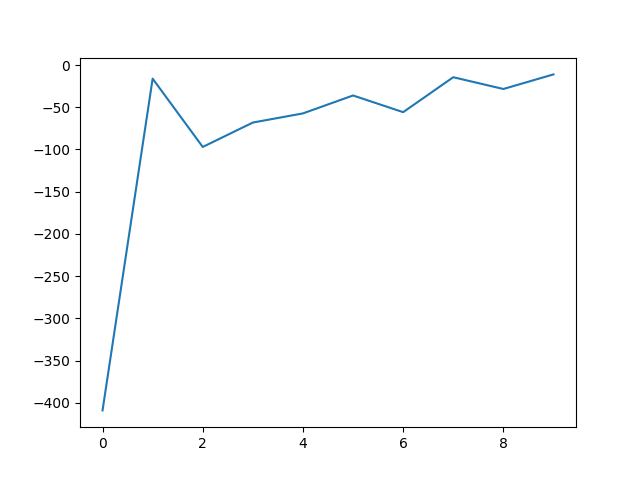
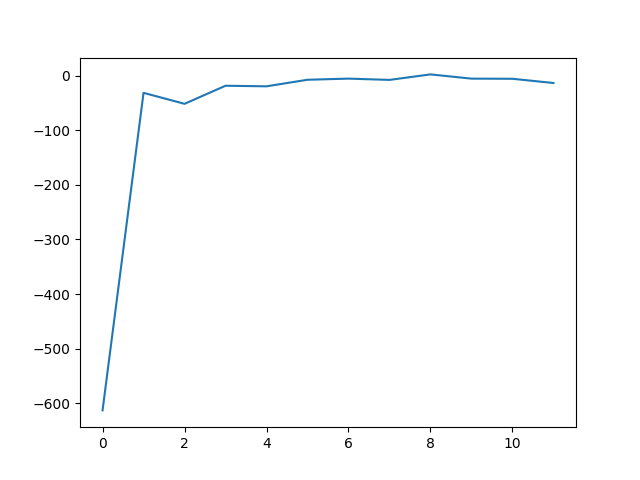
model testable with one decision at start

diff --git a/Structure.py b/Structure.py
@@ -27,7 +27,7 @@ class Structure:
         self.learning = learning
         self.batch_size=batch_size
         if(self.model != None and self.learning):
-            self.optimizer = torch.optim.Adam(self.model.parameters(), lr=1e-4)
+            self.optimizer = torch.optim.Adam(self.model.parameters(), lr=1e-5)
             self.loss = torch.nn.BCELoss()
         self.dict_edges_index = dict_edges_index
         self.dict_model_input = {}

diff --git a/main.py b/main.py
@@ -25,7 +25,7 @@ time_travel_multiplier=0.9
 
 use_model = True
 save_model = use_model
-learning = True
+learning = False
 batch_size = 32
 hidden_size_1 = 64
 hidden_size_2 = 32
